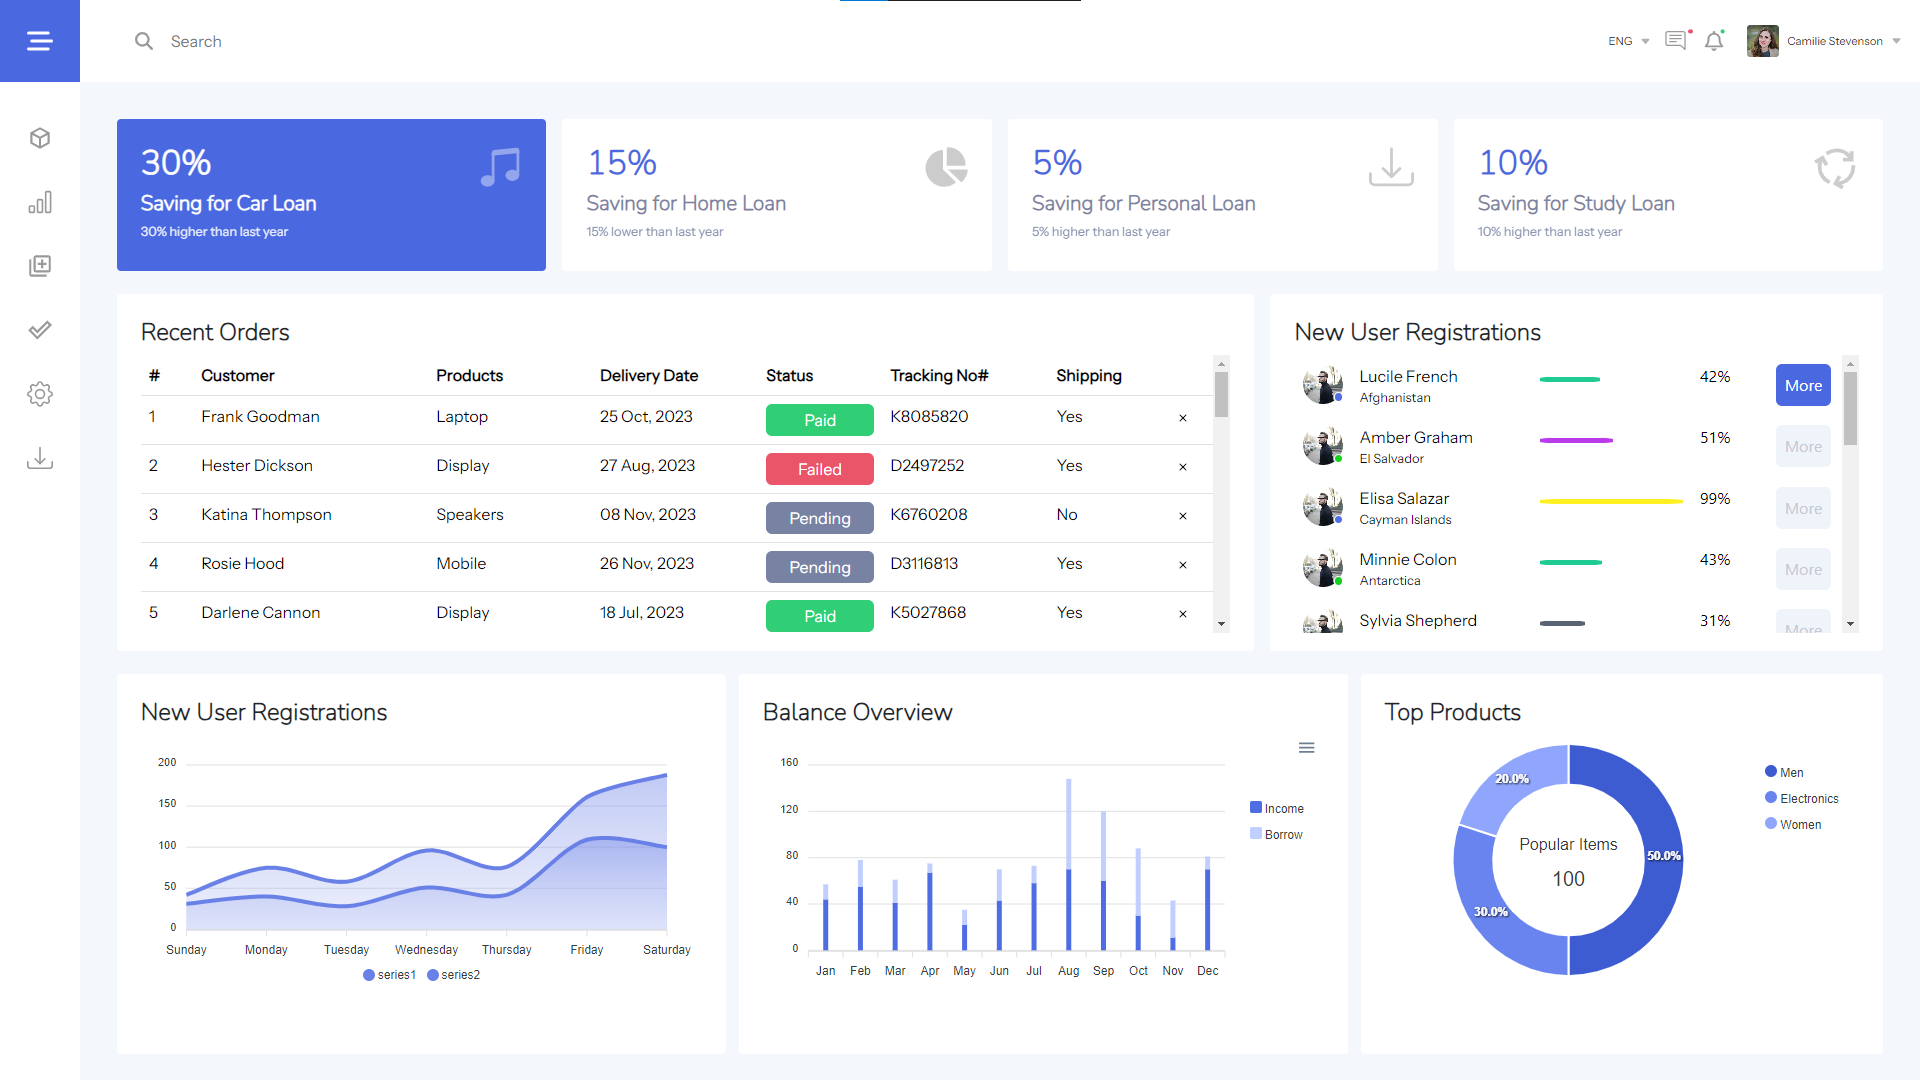
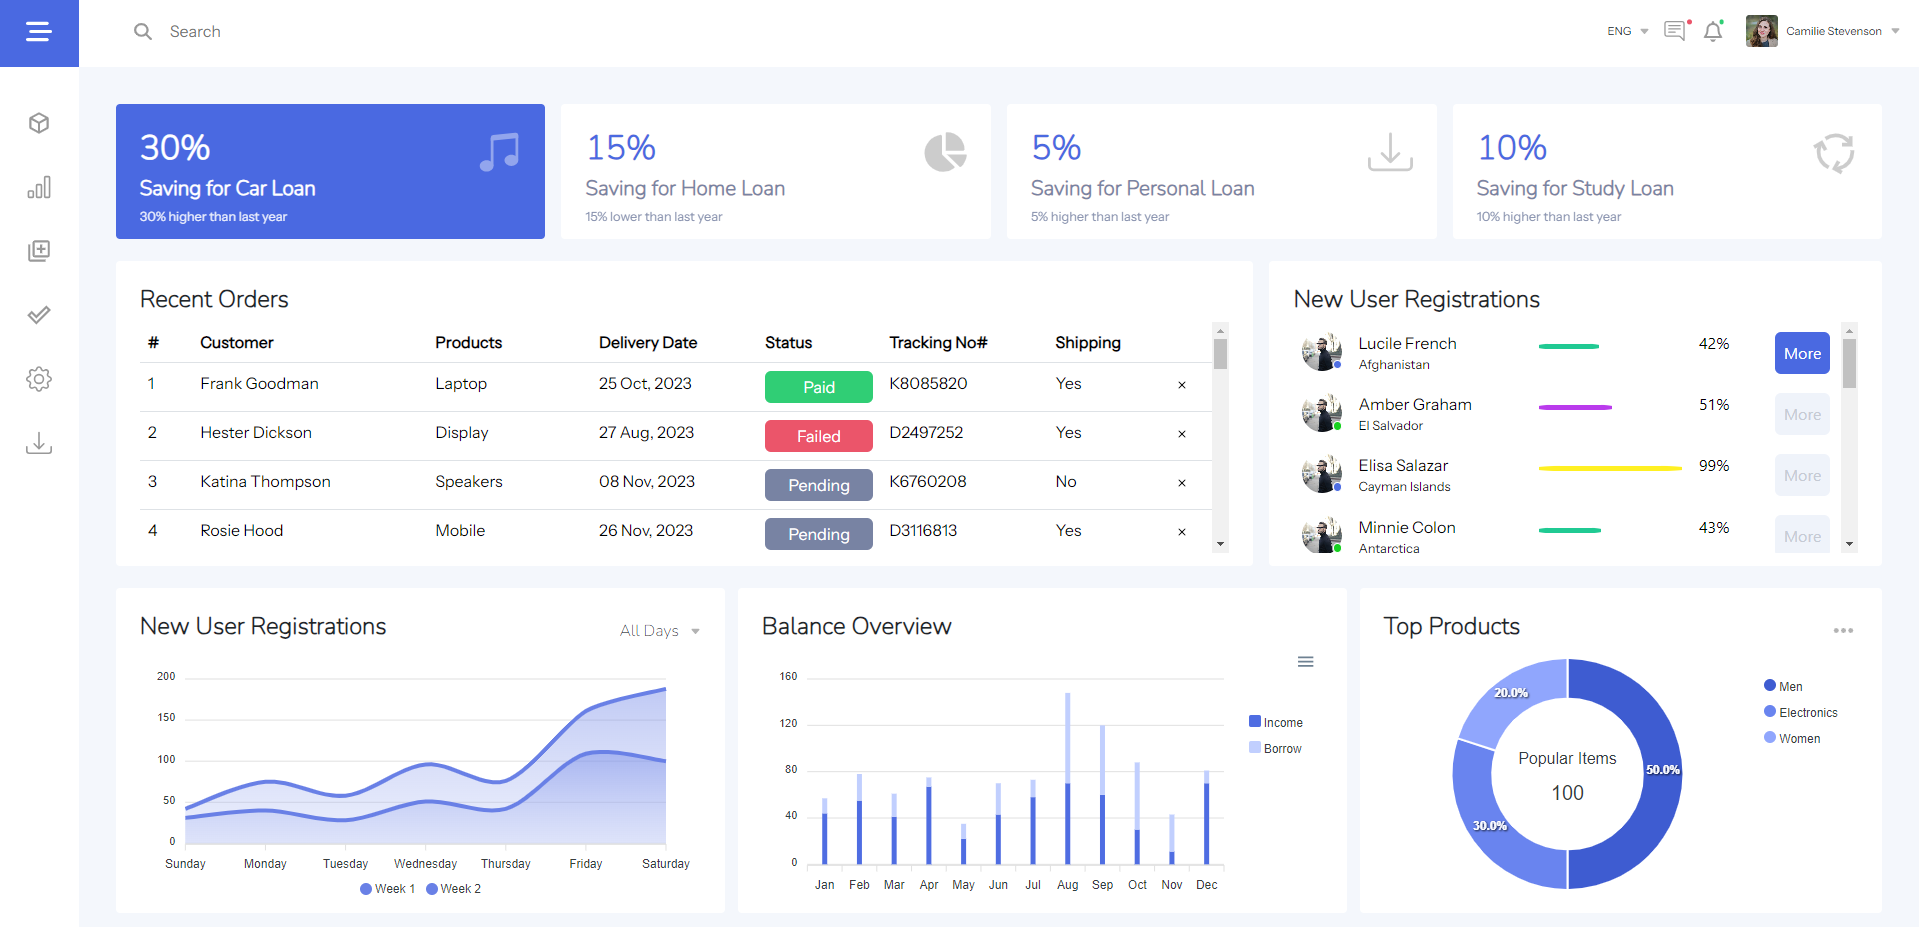
Dashboard
- Design fixes
- Code Clean up

diff --git a/src/app/components/dashboard-charts/dashboard-charts.component.html b/src/app/components/dashboard-charts/dashboard-charts.component.html
@@ -1,35 +1,33 @@
 <div class="holder w-100  d-flex ">
-  <div class="graph-holder-1 p-4">
-    <h4>New User Registrations</h4>
+  <div class="graph-holder-1 p-4 ">
+    <div class="d-flex align-items-center justify-content-between">
+      <h4 class="d-inline">New User Registrations</h4>
+      <div>
+        <p class="d-inline float-right ">All Days</p>
+        <img src="./assets/icons/caret.svg" class="icon caret ">
+      </div>
+    </div>
 
-      <apx-chart [series]="areaChartOptions.series!" [chart]="areaChartOptions.chart!" [xaxis]="areaChartOptions.xaxis!"
+    <apx-chart [series]="areaChartOptions.series!" [chart]="areaChartOptions.chart!" [xaxis]="areaChartOptions.xaxis!"
       [stroke]="areaChartOptions.stroke!" [tooltip]="areaChartOptions.tooltip!"
       [dataLabels]="areaChartOptions.dataLabels!"></apx-chart>
   </div>
 
   <div class="graph-holder-2  p-4">
     <h4>Balance Overview</h4>
-    <apx-chart
-    [series]="columnChartOptions.series!"
-    [chart]="columnChartOptions.chart!"
-    [dataLabels]="columnChartOptions.dataLabels!"
-    [plotOptions]="columnChartOptions.plotOptions!"
-    [responsive]="columnChartOptions.responsive!"
-    [xaxis]="columnChartOptions.xaxis!"
-    [legend]="columnChartOptions.legend!"
-    [fill]="columnChartOptions.fill!"
-    ></apx-chart>
+    <apx-chart [series]="columnChartOptions.series!" [chart]="columnChartOptions.chart!"
+      [dataLabels]="columnChartOptions.dataLabels!" [plotOptions]="columnChartOptions.plotOptions!"
+      [responsive]="columnChartOptions.responsive!" [xaxis]="columnChartOptions.xaxis!"
+      [legend]="columnChartOptions.legend!" [fill]="columnChartOptions.fill!"></apx-chart>
   </div>
   <div class="graph-holder-3  p-4">
-    <h4>Top Products</h4>
-    <apx-chart
-    [series]="donutChartOptions.series!"
-    [chart]="donutChartOptions.chart!"
-    [labels]="donutChartOptions.labels!"
-    [responsive]="donutChartOptions.responsive!"
-    [plotOptions]="donutChartOptions.plotOptions!"
-    [colors]="donutChartOptions.colors!"
-  ></apx-chart>
+    <div class="d-flex align-items-center justify-content-between">
+      <h4 class="d-inline">Top Products</h4>
+        <img src="./assets/icons/three-dots.svg" class="icon caret ">
+    </div>
+    <apx-chart [series]="donutChartOptions.series!" [chart]="donutChartOptions.chart!"
+      [labels]="donutChartOptions.labels!" [responsive]="donutChartOptions.responsive!"
+      [plotOptions]="donutChartOptions.plotOptions!" [colors]="donutChartOptions.colors!"></apx-chart>
   </div>
 
 </div>

diff --git a/src/app/components/dashboard-charts/dashboard-charts.component.scss b/src/app/components/dashboard-charts/dashboard-charts.component.scss
@@ -18,6 +18,10 @@
 
   .graph-holder-1 {
     flex-basis: 35%;
+
+    p {
+      margin-right: 0.7rem;
+    }
   }
 
   .graph-holder-2 {
@@ -27,6 +31,12 @@
 
   .graph-holder-3 {
     flex-basis: 30%;
+
+    img {
+      width: 1.8rem;
+    }
   }
+
+  @extend %caret;
 
 }

diff --git a/src/assets/common.scss b/src/assets/common.scss
@@ -19,6 +19,13 @@
   border-radius: 4px;
 }
 
+%caret {
+  .caret{
+    width: 11px;
+    filter: opacity(0.3);
+  }
+}
+
 @mixin progress-bar-style {
 
   .excellent {

diff --git a/src/app/components/header/header.component.scss b/src/app/components/header/header.component.scss
@@ -81,9 +81,7 @@
       }
     }
 
-    .caret {
-      width: 11px;
-      filter: opacity(0.3);
-    }
+    @extend %caret;
+
   }
 }

diff --git a/README.md b/README.md
@@ -16,3 +16,6 @@ npm install -f
 
 ![Alt text](image.png)
 
+## Order info popup
+
+![Alt text](image-1.png)
